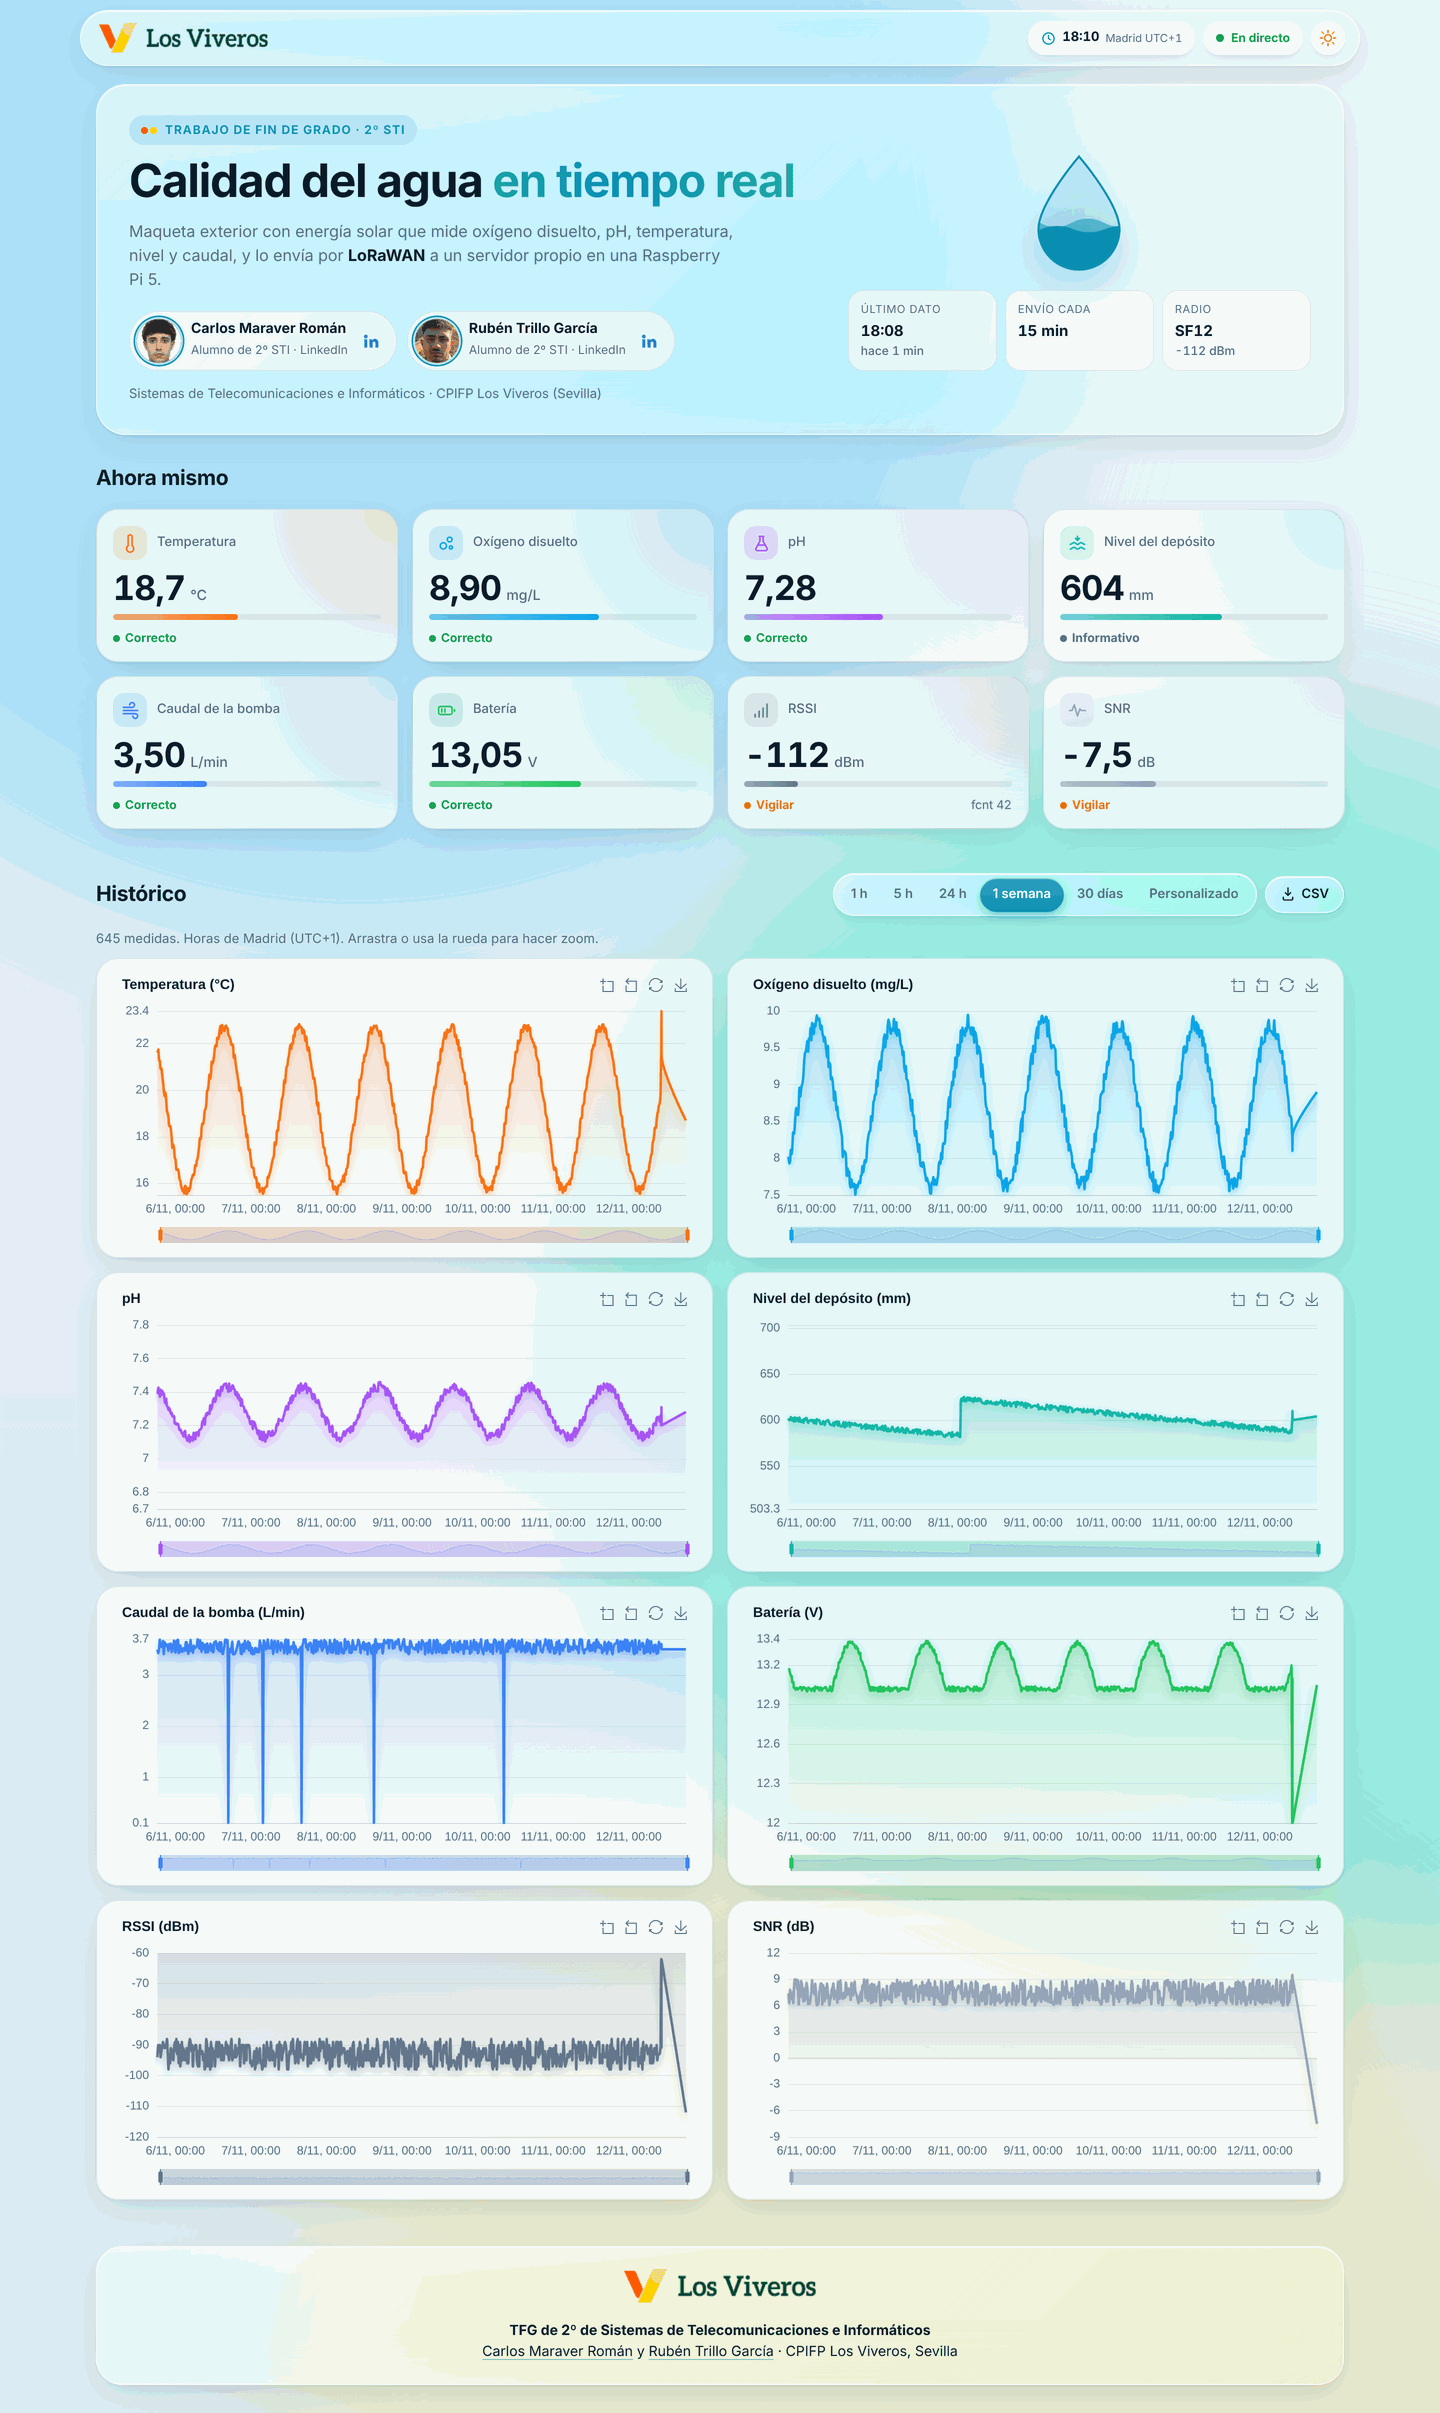
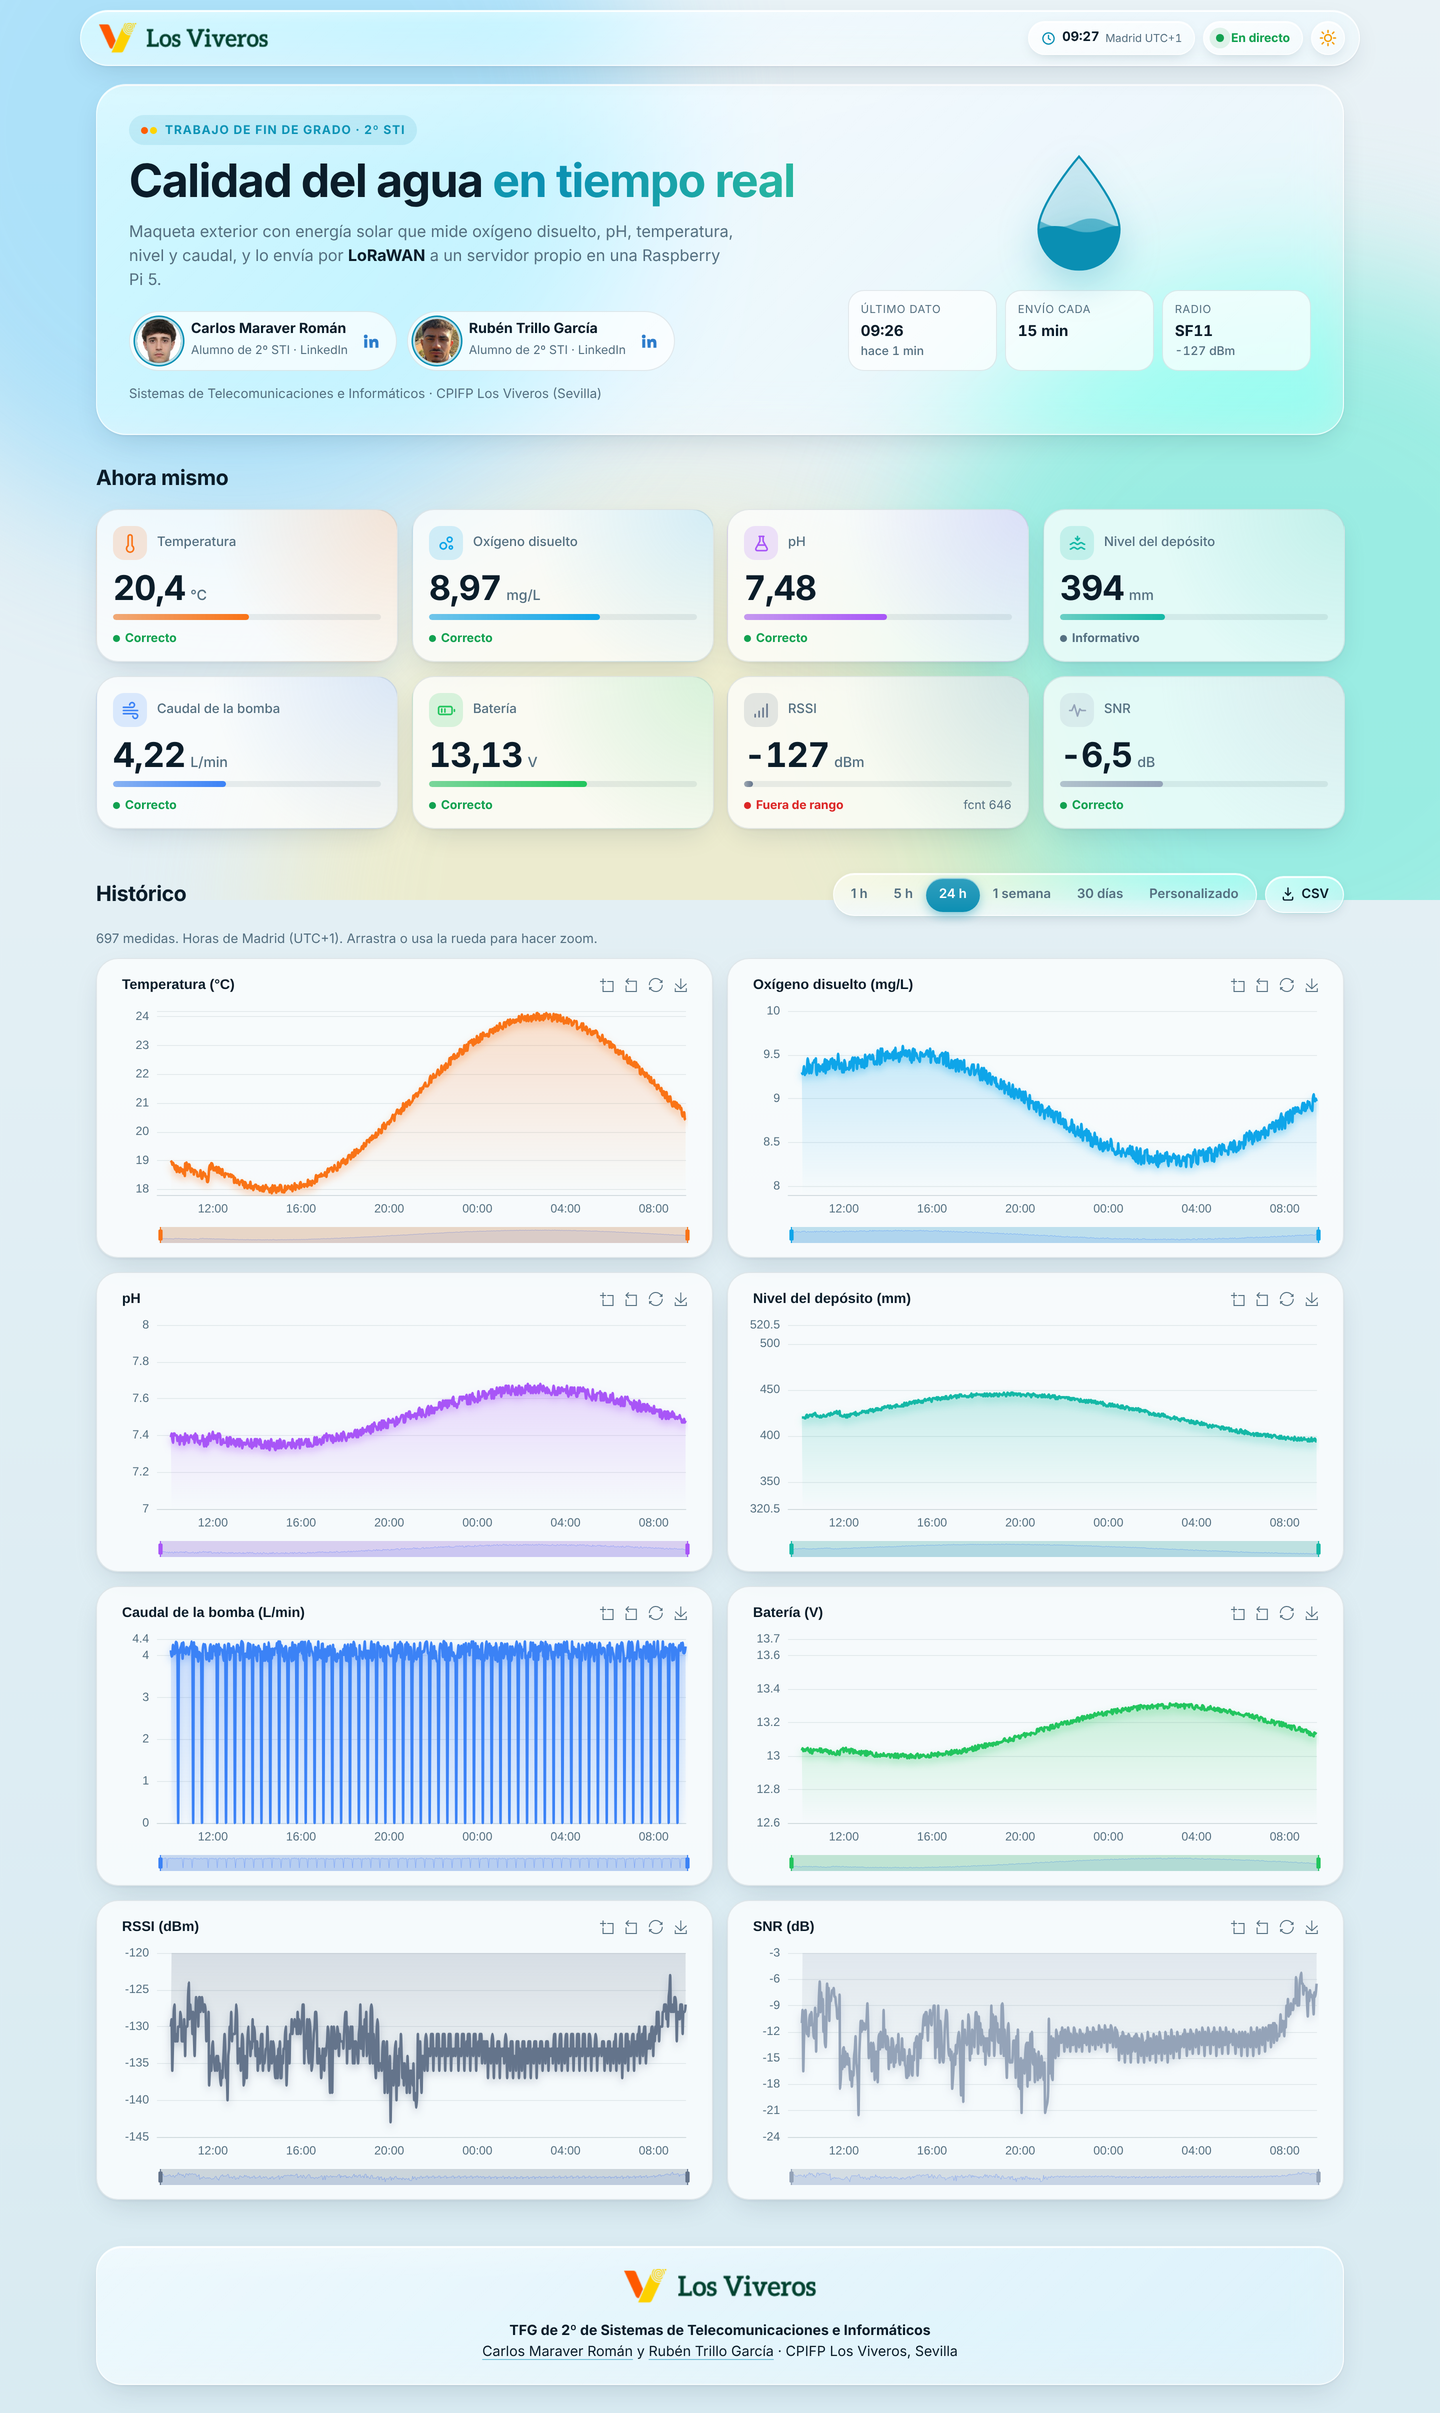
Esquemas y capturas de la web actualizados al montaje simple
- esquema-sistema e instalacion-sensores: sin panel propio, MPPT ni ADS1115;
  alimentación desde el inversor del centro (fuente de 12 V y USB con respaldo).
- Nuevos esquema-red y flujo-datos (.png y .svg editables).
- Capturas de la web del 13-11-2026 (claro, oscuro y móvil) con los datos
  simulados que manda la LILYGO.
- README y raspberry/README: textos de las imágenes al día.

Claude-Session: https://claude.ai/code/session_01D9udZkhj3QminNVJNkT95U

diff --git a/README.md b/README.md
@@ -70,6 +70,11 @@ que están en `.gitignore` (se suben solo sus plantillas `*.example`).
 
 ## Imágenes
 
+### Red y flujo de datos
+![Esquema de red](docs/img/esquema-red.png)
+
+![Flujo de datos](docs/img/flujo-datos.png)
+
 ### Conexionado del nodo
 ![Conexionado del nodo (montaje simple)](docs/img/conexionado-simple.png)
 
@@ -81,7 +86,7 @@ Logo de Los Viveros, fase del ciclo y temporizador del envío por LoRa.
 
 ![Pantalla OLED](docs/img/pantalla-oled.png)
 
-### Web en tiempo real (captura con datos simulados)
+### Web en tiempo real (captura del 13-11-2026 con datos simulados)
 Portada con el logo de Los Viveros y los autores del TFG, tarjetas en directo y gráficas del histórico
 (1 h, 5 h, 24 h, 1 semana, 30 días o fechas a elegir). Toques de cristal translúcido y modo claro u oscuro con el botón de la cabecera (sigue al sistema si no se toca).
 

diff --git a/raspberry/README.md b/raspberry/README.md
@@ -201,7 +201,7 @@ Borrar después los datos de prueba: `DELETE FROM medidas WHERE dev_eui='0000000
 
 ![Web con datos simulados](../docs/img/web-datos-simulados.png)
 
-(Captura con **datos simulados** de 30 días (vista de 1 semana), no son medidas reales. En el móvil: `docs/img/web-movil-datos-simulados.png`; tema oscuro: `docs/img/web-oscuro-datos-simulados.png`.)
+(Captura del 13-11-2026 con los **datos simulados** que manda la LILYGO con el firmware de simulación (vista de 24 h), no son medidas reales. En el móvil: `docs/img/web-movil-datos-simulados.png`; tema oscuro: `docs/img/web-oscuro-datos-simulados.png`.)
 
 Qué tiene la página:
 - **Cabecera** fija con el logo del CPIFP Los Viveros, la hora de Madrid con su desfase (UTC+1 en invierno, UTC+2 en verano),
